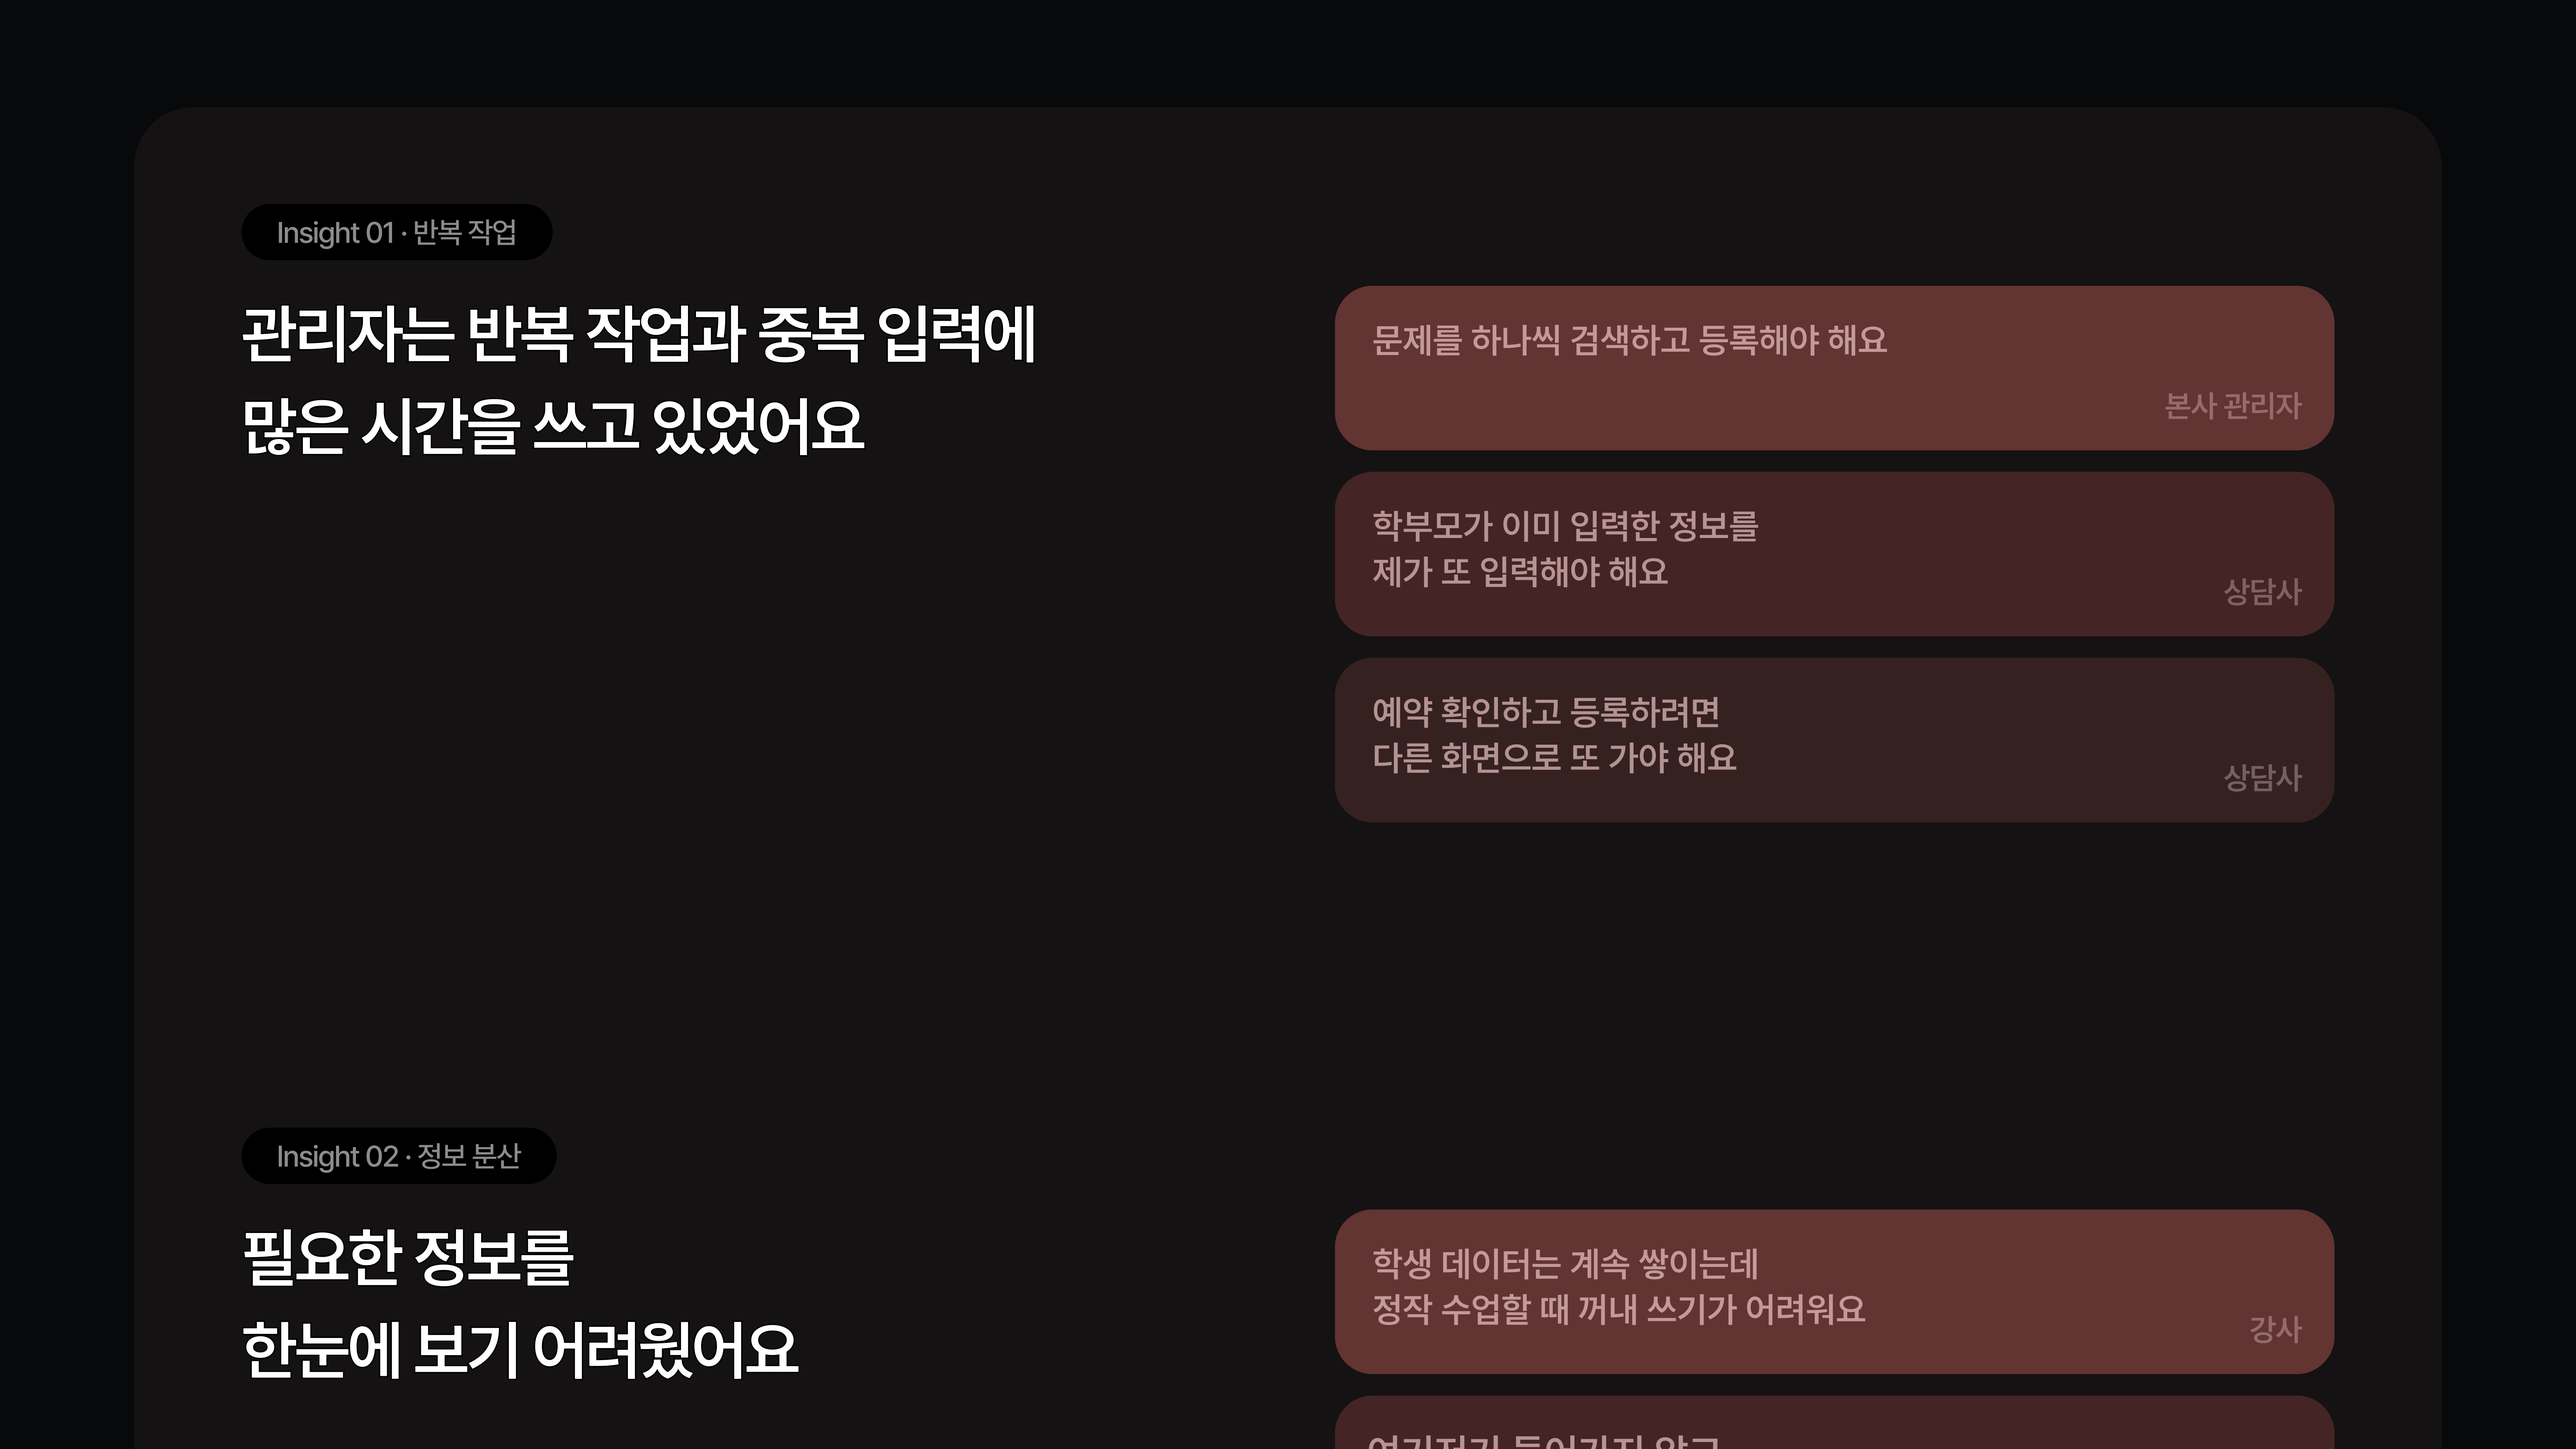
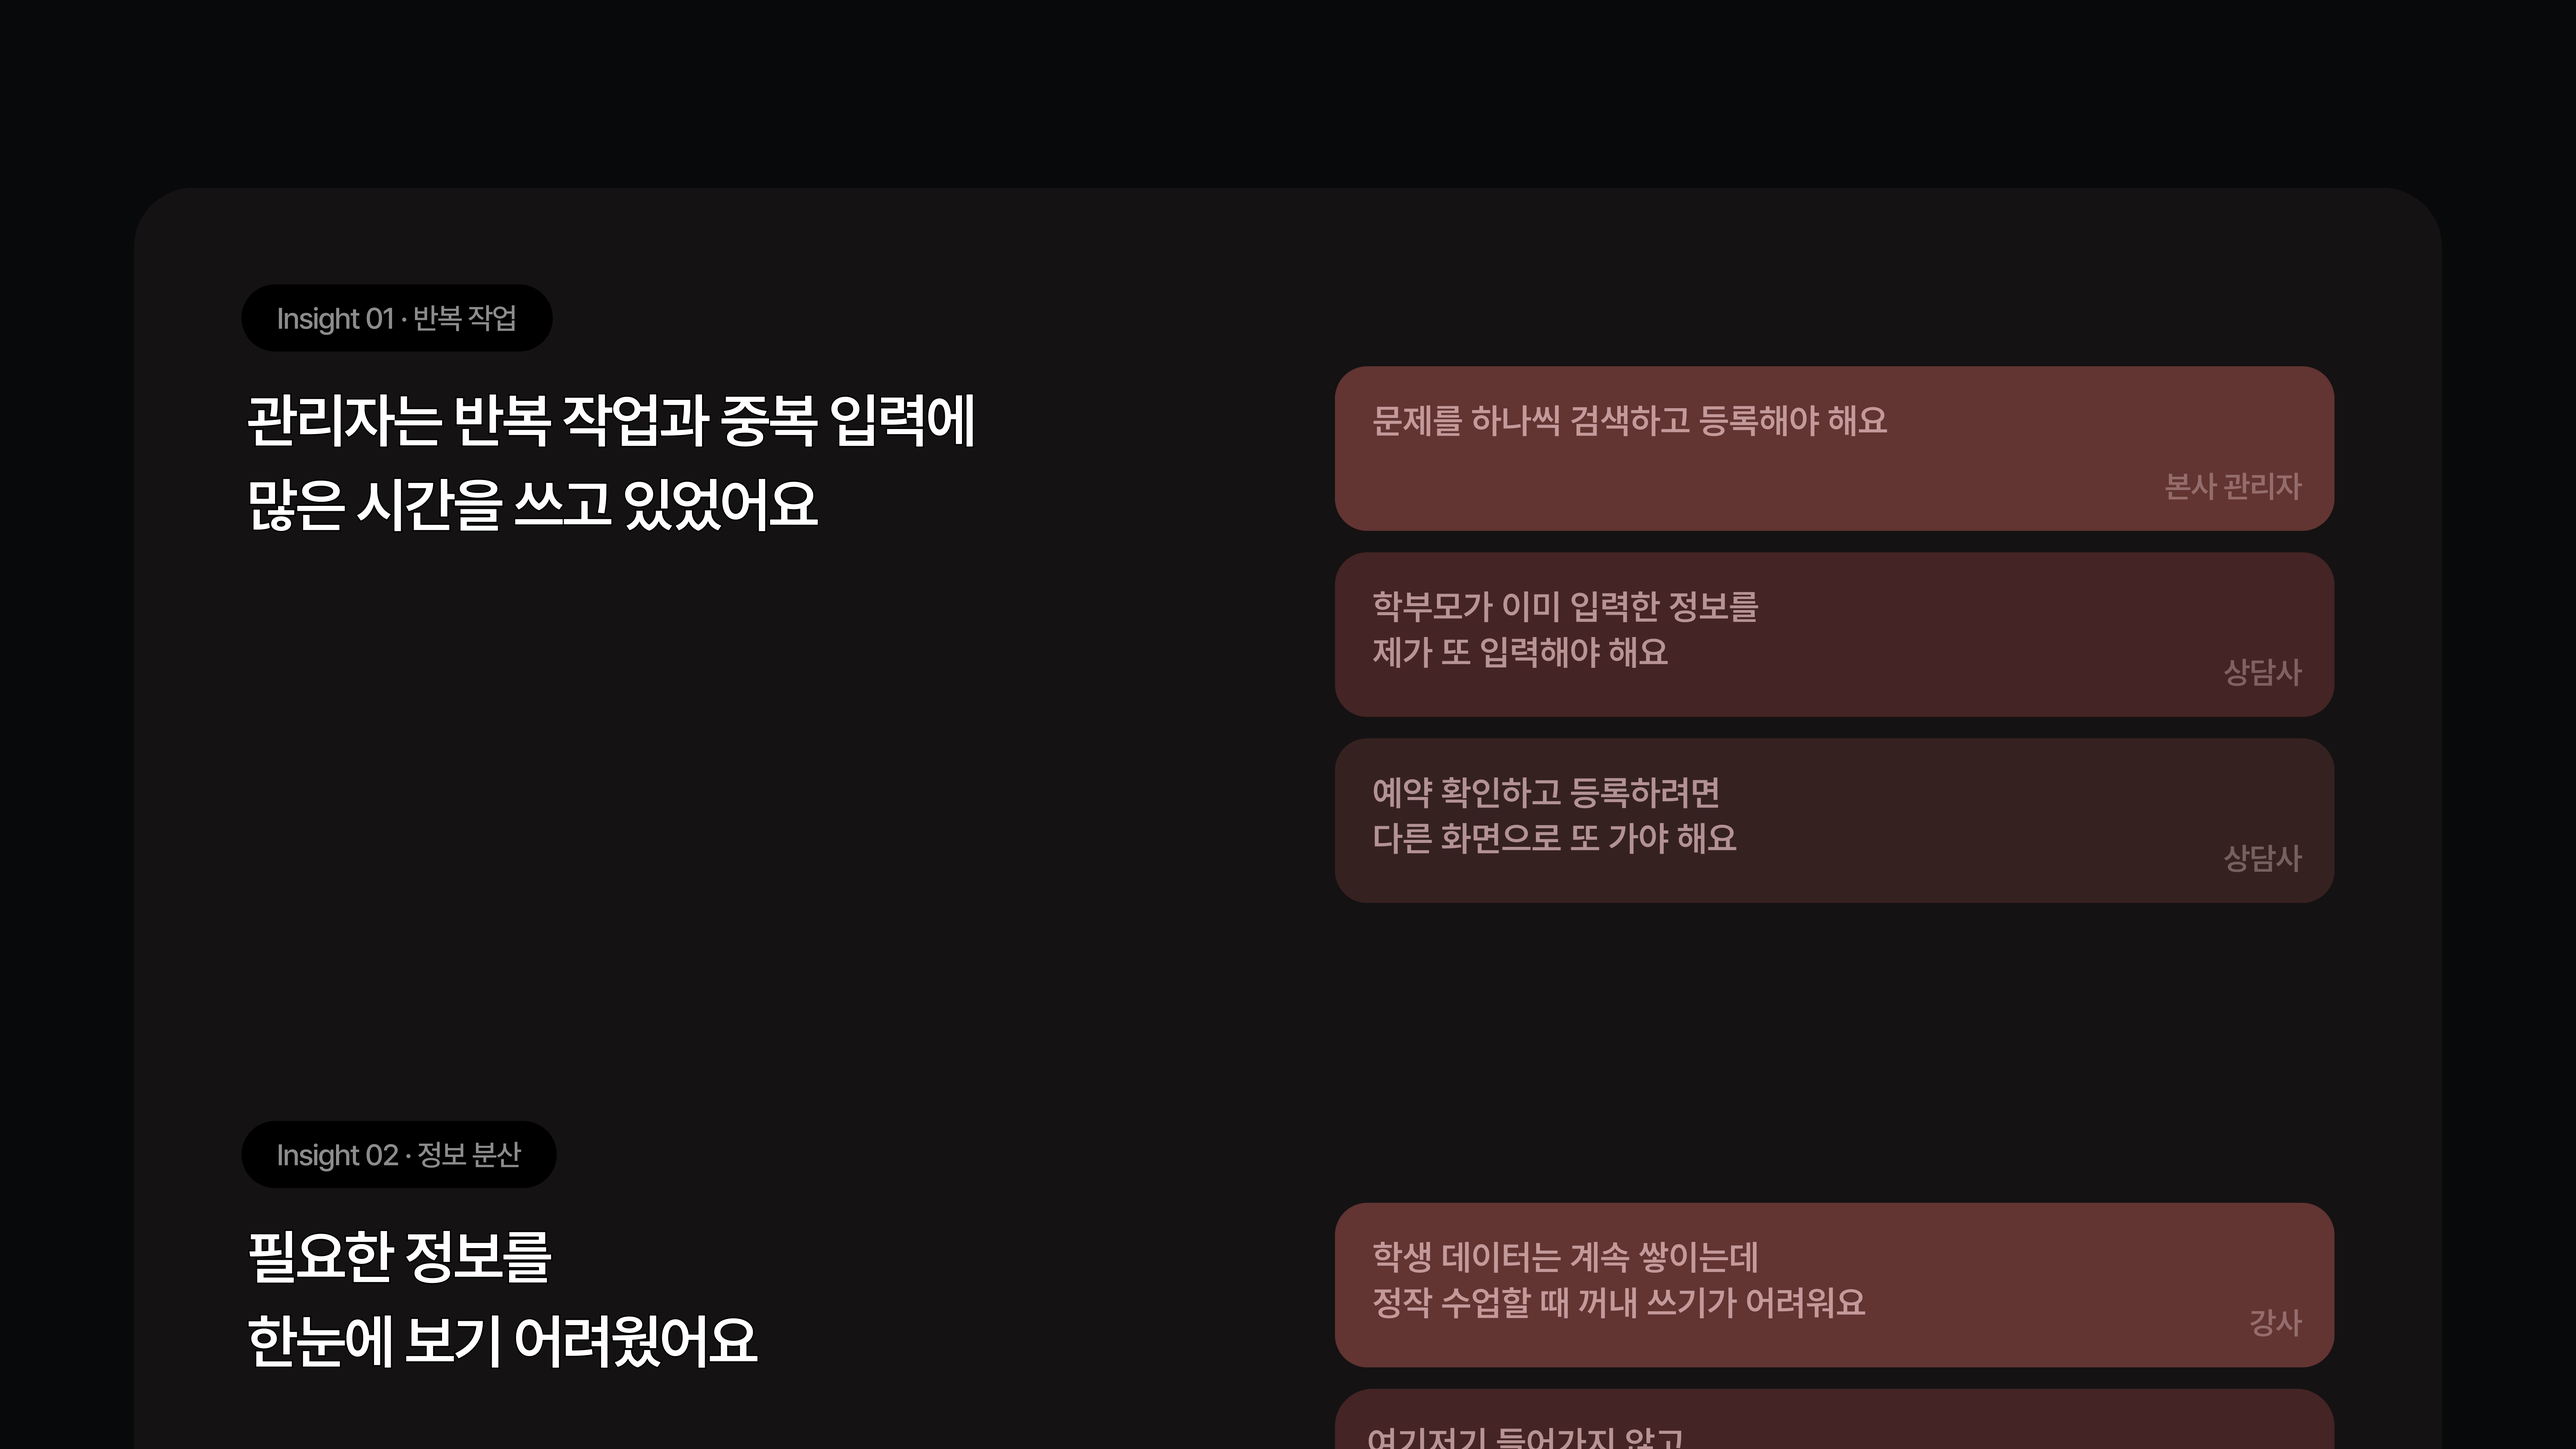
학원 ERP 04·05·07 슬라이드 재내보내기본 반영
- 04·05·07.png 갱신 (7680x4320, 총 21장 그대로)
- 04/05 이음새의 글자 깨짐이 해소됐다. 1366px·1470px 두 폭에서
  "여기저기 들어가지 않고" 줄이 정상 렌더링되는 것을 확인했다.
- ASSET_VERSION 20261124b -> 20261124c

diff --git a/assets/js/main.js b/assets/js/main.js
@@ -70,7 +70,7 @@
      (CSS/JS 의 ?v= 와 같은 역할)
      경로 자체에는 붙이지 않는다 — 확장자 추출이나 존재 확인이 쿼리에
      오염되면 안 되므로, <img src> 에 실을 때만 versioned() 로 감싼다. */
-  var ASSET_VERSION = '20261124b';
+  var ASSET_VERSION = '20261124c';
   function slidePath(key, n, ext) { return 'assets/slides/' + key + '/' + pad(n) + '.' + ext; }
   function versioned(src) { return src + '?v=' + ASSET_VERSION; }
 

diff --git a/index.html b/index.html
@@ -169,6 +169,6 @@
   </div>
 </div>
 
-<script src="assets/js/main.js?v=20261124b"></script>
+<script src="assets/js/main.js?v=20261124c"></script>
 </body>
 </html>
